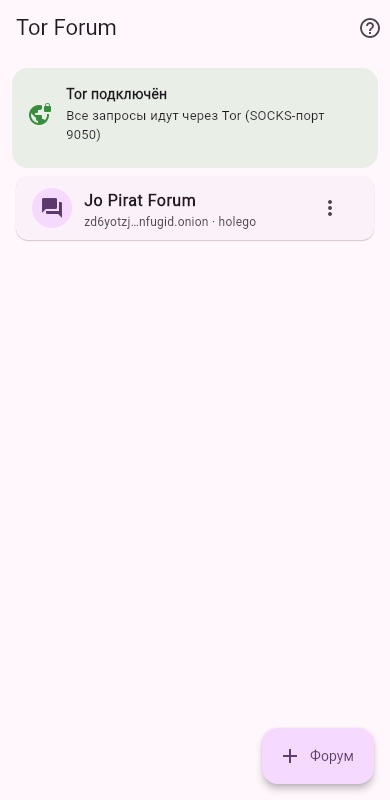
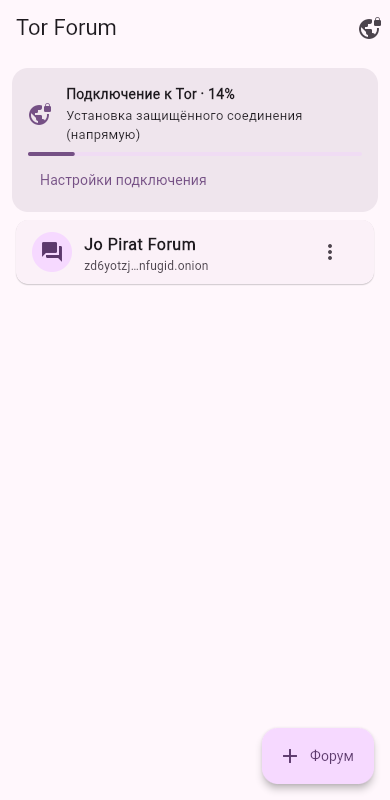
Update the README for the built-in Tor and drop the Russian section

diff --git a/README.md b/README.md
@@ -4,35 +4,30 @@
 [![Android APK](https://github.com/Holego/tor-forum-client/actions/workflows/android.yml/badge.svg)](https://github.com/Holego/tor-forum-client/actions/workflows/android.yml)
 
 A mobile client for forums hosted as Tor onion services, written in Python.
-Read topics, reply, start threads and chat in private messages — every byte goes
-through Tor, and images/GIFs linked in posts are fetched through Tor as well.
+Tor is built into the app — no Orbot or Tor Browser needed, and it can connect through
+Snowflake, obfs4 or WebTunnel bridges where Tor is blocked. Read topics, reply, start threads and
+chat in private messages; images/GIFs linked in posts are fetched through Tor as well.
 
 Works with any forum that implements the small [Tor Forum API](#forum-api)
 (for example [Jo Pirat Forum](https://github.com/Holego/jo-pirat-forum), which comes preset).
 
 <p>
-  <img src="docs/screenshots/1-home.png" width="19%" alt="Forums and Tor status">
+  <img src="docs/screenshots/1-home.png" width="19%" alt="Built-in Tor bootstrapping">
   <img src="docs/screenshots/2-forum.png" width="19%" alt="Categories">
   <img src="docs/screenshots/3-topic.png" width="19%" alt="Topic with an image loaded through Tor">
   <img src="docs/screenshots/4-messages.png" width="19%" alt="Private messages with a GIF">
-  <img src="docs/screenshots/5-tor-help.png" width="19%" alt="Connecting to Tor">
+  <img src="docs/screenshots/5-connection.png" width="19%" alt="Connection settings and bridges">
 </p>
-
-## Коротко по-русски
-
-1. Установите [Orbot](https://orbot.app/) (Tor для Android), откройте и нажмите «Подключиться».
-   Если Tor заблокирован провайдером — включите в Orbot мосты (Snowflake, obfs4 или WebTunnel;
-   свежие мосты выдаёт Telegram-бот @GetBridgesBot).
-2. Скачайте APK из [Releases](https://github.com/Holego/tor-forum-client/releases):
-   для большинства телефонов нужен файл `arm64-v8a`.
-3. Откройте **Tor Forum** — Jo Pirat Forum уже в списке. Другой форум добавляется кнопкой «+ Форум»
-   по .onion-адресу.
 
 ## Features
 
-- **Tor only, no fallback.** Remote sites are reachable exclusively through the local Tor SOCKS proxy
-  (Orbot on Android, `tor` or Tor Browser on desktop, detected automatically). If Tor is down the app
-  shows how to start it — it never retries without Tor.
+- **Tor built in.** On Android the app runs Tor itself ([tor-android](https://github.com/guardianproject/tor-android))
+  and shows bootstrap progress; on desktop it uses a running `tor` or Tor Browser. Remote sites are only ever
+  reached through Tor — there is no fallback to a direct connection.
+- **Works where Tor is blocked.** Connection modes: automatic (direct, switching to Snowflake if Tor looks
+  blocked), direct, Snowflake, or your own obfs4/WebTunnel bridges — pluggable transports come from
+  [IPtProxy](https://github.com/tladesignz/IPtProxy). Bridges are changed at runtime over Tor's control
+  connection, like Tor Browser does.
 - **Forums:** categories, topics (pinned/locked), paginated posts, replying, new topics, login/registration,
   private messages with unread badges.
 - **Media by link:** direct links to images/GIFs in posts are downloaded through Tor and shown inline;
@@ -45,13 +40,24 @@ Works with any forum that implements the small [Tor Forum API](#forum-api)
 
 ```mermaid
 flowchart LR
-    UI["Flet UI (screens)"] --> API["ForumClient<br/>httpx, async"]
-    UI --> Media["MediaLoader<br/>size cap + LRU cache"]
-    API -- "SOCKS5 · isolation per forum" --> Tor[("Orbot / tor<br/>127.0.0.1:9050")]
-    Media -- "SOCKS5 · isolation per host" --> Tor
+    subgraph app["Android app"]
+        UI["Flet UI (Python)"] --> API["ForumClient<br/>httpx, async"]
+        UI --> Media["MediaLoader<br/>size cap + LRU cache"]
+        UI -- "TorManager service<br/>(Python → Dart → Java)" --> Tor[("Tor · TorService<br/>SOCKS 127.0.0.1")]
+        Tor -. "bridges" .-> PT["IPtProxy<br/>Snowflake · obfs4 · WebTunnel"]
+        API -- "SOCKS5 · isolation per forum" --> Tor
+        Media -- "SOCKS5 · isolation per host" --> Tor
+    end
     Tor --> Forum[".onion forum<br/>/api/"]
     Tor --> Hosts["image hosts"]
 ```
+
+`packages/flet_tor` is a small Flet extension: a Python `Service`, a Dart `FletService` and an Android
+plugin in Java. Tor starts with `DisableNetwork 1` and a `ClientTransportPlugin` for every IPtProxy
+transport; connecting is a `SETCONF UseBridges/Bridge …` + `DisableNetwork 0` over the control
+connection, so switching bridges never needs a Tor restart. The Python side (`torforum/embedded.py`)
+follows `status/bootstrap-phase` and, in automatic mode, falls back to Snowflake when a direct
+connection doesn't get past 25 % within 40 s.
 
 Privacy details that are enforced in code and covered by tests:
 
@@ -73,13 +79,14 @@ uv run flet run src/main.py       # desktop window
 uv run flet run --web src/main.py # or in a browser
 ```
 
-Start Tor first (`tor`, or Tor Browser which listens on 9150). To work on the UI against a forum running
-on your own machine, add `http://127.0.0.1:8000` as a forum — local addresses don't need Tor.
+On desktop, start Tor first (`tor`, or Tor Browser which listens on 9150); the built-in Tor is Android-only.
+To work on the UI against a forum running on your own machine, add `http://127.0.0.1:8000` as a forum —
+local addresses don't need Tor.
 
 ## Tests
 
 ```bash
-uv run pytest     # 80+ tests: address parsing, SOCKS detection, routing through a fake Tor, API client, media
+uv run pytest     # 100+ tests: addresses, bridges, bootstrap/fallback logic, routing through a fake Tor, API, media
 uv run ruff check . && uv run ruff format --check .
 ```
 
@@ -92,8 +99,9 @@ minimal SOCKS5 server (`tests/fake_socks.py`) that records what the client asks 
 uv run flet build apk     # installs Flutter / Android SDK on first run if needed
 ```
 
-CI does the same on every push to `main` (APK attached to the workflow run) and publishes the APKs to
-a GitHub release when you push a tag:
+CI does the same on every push to `main`, then installs the x86_64 APK on an Android emulator, launches it
+and waits until the built-in Tor reports `PROGRESS=100` — so every build is checked to actually connect.
+Pushing a tag publishes the APKs to a GitHub release:
 
 ```bash
 git tag v0.1.0 && git push origin v0.1.0
@@ -143,14 +151,17 @@ src/
     media.py            image downloads through Tor, size cap, LRU cache
     storage.py          saved forums and logins (SharedPreferences)
     text.py             link splitting, relative time, Russian plurals
-    ui/                 Flet screens: home, forum, account, messages
+    bridges.py          connection modes, built-in Snowflake bridges, bridge-line validation
+    embedded.py         drives the built-in Tor through bootstrap, auto-fallback to Snowflake
+    ui/                 Flet screens: home, connection, forum, account, messages
+packages/flet_tor/      Flet extension: Tor + pluggable transports inside the Android app (Python/Dart/Java)
 tests/                  pytest suite, fake SOCKS5 server
 ```
 
 ## Stack
 
 Python 3.12 · [Flet](https://flet.dev) (Flutter UI from Python) · [httpx](https://www.python-httpx.org/)
-with SOCKS · pytest / pytest-asyncio / respx · ruff · uv · GitHub Actions
+with SOCKS · tor-android · IPtProxy · pytest / pytest-asyncio / respx · ruff · uv · GitHub Actions
 
 ## License
 
